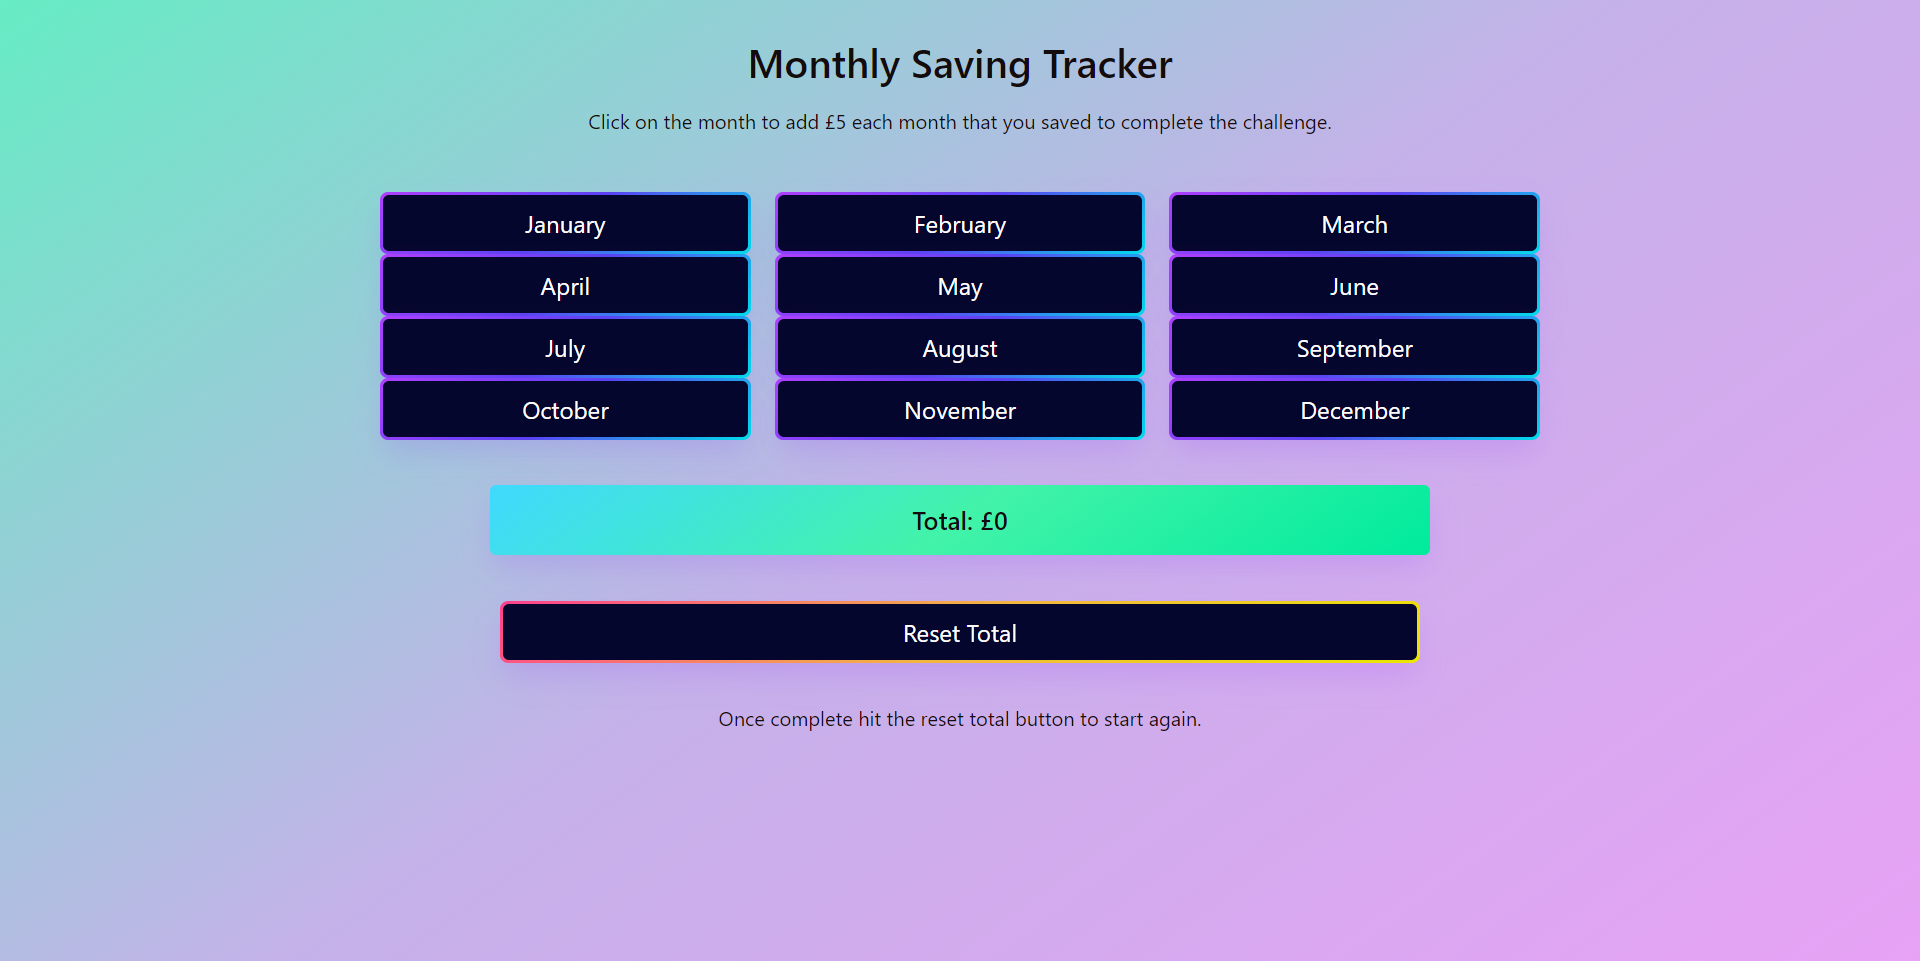
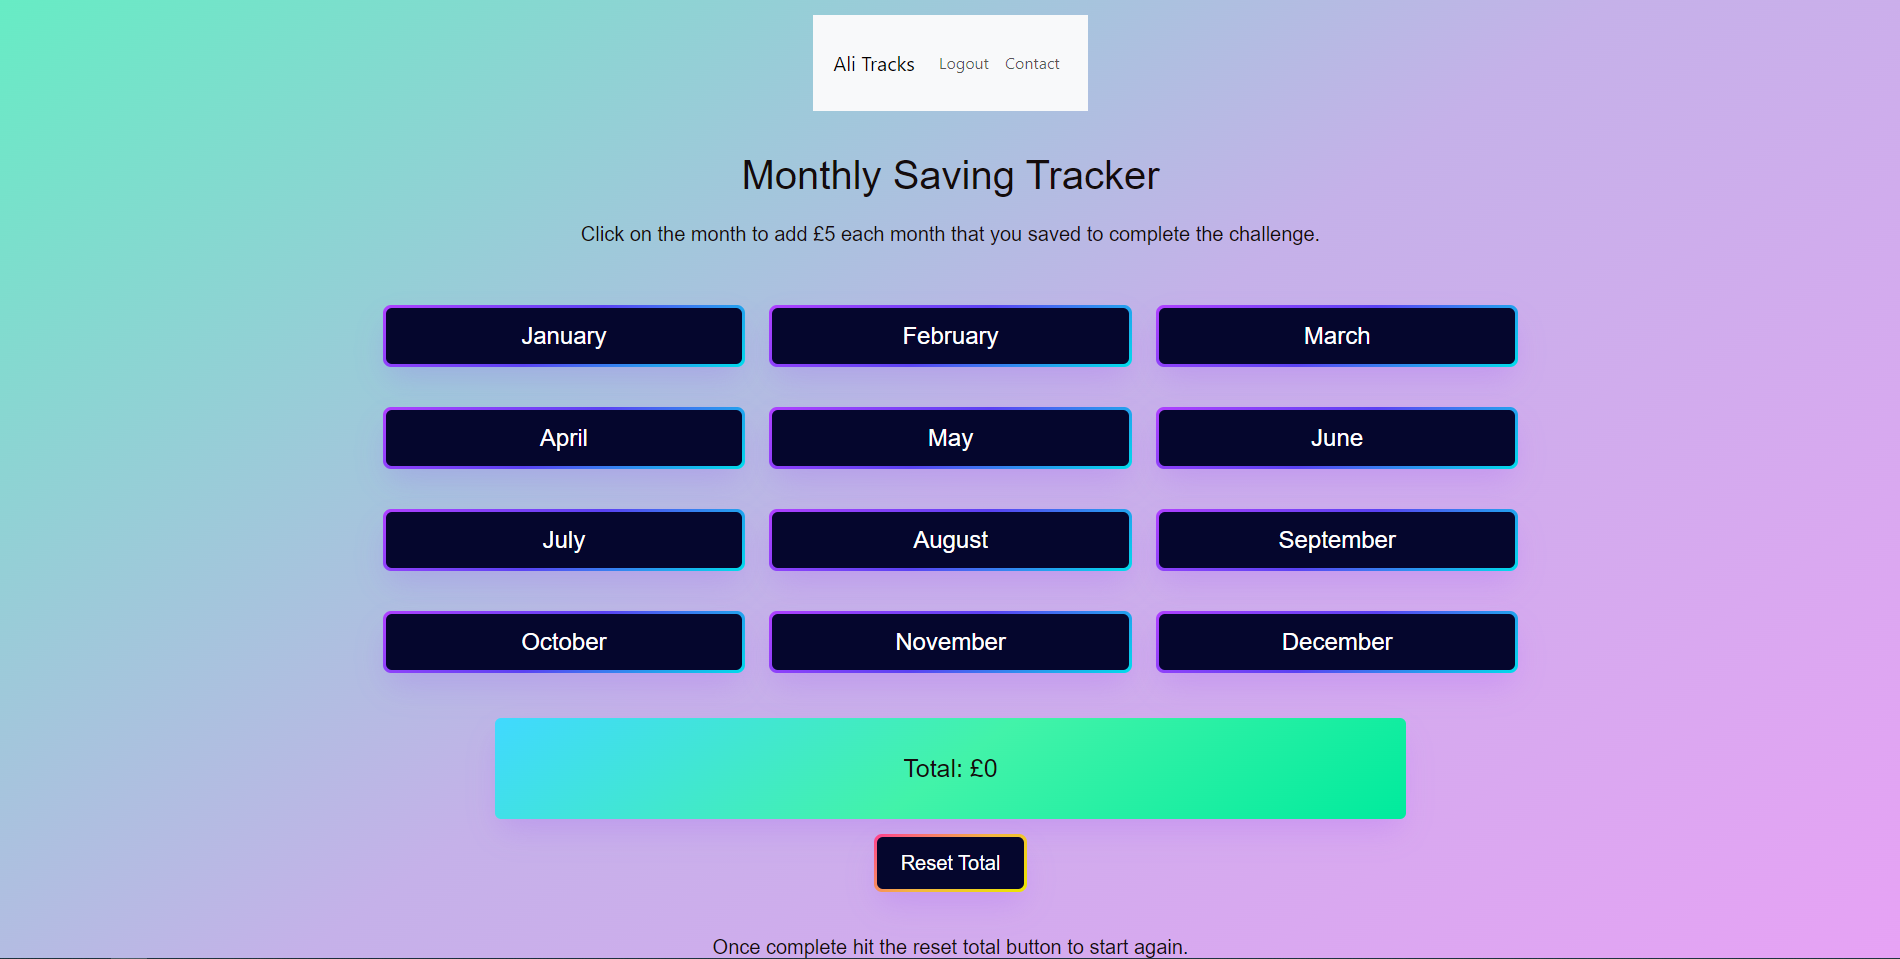
Readme File
Updated readme file to reflect new code validation process

Changed region(s): [[0.1863, 0.0, 0.8074, 0.9374], [0.0, 0.9677, 1.0, 1.0]]

diff --git a/templates/base.html b/templates/base.html
@@ -19,7 +19,7 @@
                     {% if 'username' in session %}
                         <li class="nav-item">
                             <a class="nav-link" href="{{ url_for('logout')}}">Logout</a>
-                        </li>                 
+                        </li>
                     {% else %}
                         <li class="nav-item">
                             <a class="nav-link" href="{{ url_for('register')}}">Register</a>
@@ -32,7 +32,6 @@
             </div>
         </div>
     </nav>
-
     {% with messages = get_flashed_messages() %}
         {% if messages %}
             <div id="flash-message" class="alert alert-success" role="alert">

diff --git a/app.py b/app.py
@@ -1,9 +1,9 @@
+import os
 from flask import Flask, jsonify, request, render_template, redirect, url_for, session, flash
 from flask_bcrypt import Bcrypt
 from flask_cors import CORS
 from flask_pymongo import PyMongo
 from dotenv import load_dotenv
-import os
 
 # Load environment variables from .env file
 if os.path.exists(".env"):
@@ -16,6 +16,7 @@ bcrypt = Bcrypt(app)
 # Get the MONGO_URI and SECRET_KEY from environment variables
 mongo_uri = os.environ.get('MONGO_URI')
 secret_key = os.environ.get('SECRET_KEY')
+
 print("MongoDB connected successfully!")
 
 # Check if the environment variables are loaded correctly
@@ -34,24 +35,26 @@ savings_collection = mongo.db.savings
 contact_collection = mongo.db.contacts
 
 if mongo.db is None:
-    raise ValueError("Failed to connect to MongoDB. Check your MONGO_URI "
-                     "and database configuration.")
+    raise ValueError("Failed to connect to MongoDB. Check your MONGO_URI and database configuration.")
 
-# Route for the registration page
+
 @app.route('/register', methods=['GET', 'POST'])
 def register():
+    """Route for the registration page."""
     if request.method == 'POST':
         user = request.form['username']
         password = request.form['password']
         hashed_password = bcrypt.generate_password_hash(password).decode('utf-8')
-        users_collection.insert_one({'username': user, 'password': hashed_password})
+        users_collection.insert_one(
+            {'username': user, 'password': hashed_password})
         flash('Registration successful! Please login.')
         return redirect(url_for('login'))
     return render_template('register.html')
 
-# Route for the login page
+
 @app.route('/', methods=['GET', 'POST'])
 def login():
+    """Route for the login page."""
     if request.method == 'POST':
         username = request.form['username']
         password = request.form['password']
@@ -63,24 +66,27 @@ def login():
             flash('Invalid credentials, please try again!')
     return render_template('login.html')
 
-# Route to logout
+
 @app.route('/logout')
 def logout():
+    """Route to logout."""
     session.pop('username', None)
     flash('You have been logged out!')
     return redirect(url_for('login'))
 
-# Route to the savings page /index page
+
 @app.route('/index')
 def index():
+    """Route to the savings page /index page."""
     if 'username' not in session:
         return redirect(url_for('login'))
     return render_template('index.html')
 
-# Update the total in the database
+
 @app.route('/update_total', methods=['POST'])
 def update_total():
-    if 'username' not in session:  # Fixed condition here
+    """Update the total in the database."""
+    if 'username' not in session:
         return redirect(url_for('login'))
 
     try:
@@ -90,10 +96,13 @@ def update_total():
 
         # Ensure there is a document in the collection
         if not savings_collection.find_one({'username': username}):
-            savings_collection.insert_one({'username': username, 'total': 0})
+            savings_collection.insert_one(
+                {'username': username, 'total': 0})
 
-        savings_collection.update_one({'username': username}, {'$inc': {'total': 5}})
-        updated_total = savings_collection.find_one({'username': username})['total']
+        savings_collection.update_one({'username': username}, {
+                                      '$inc': {'total': 5}})
+        updated_total = savings_collection.find_one(
+            {'username': username})['total']
         print(f"Updated total for {username}: {updated_total}")
 
         # Return the updated total
@@ -102,9 +111,10 @@ def update_total():
         print(f"Error updating total: {e}")
         return jsonify({'error': str(e)}), 500
 
-# Get total from the database
+
 @app.route('/get_total')
 def get_total():
+    """Get total from the database."""
     if 'username' not in session:
         return redirect(url_for('login'))
 
@@ -113,42 +123,48 @@ def get_total():
         data = savings_collection.find_one({'username': username})
         if data is None:
             data = {'total': 0}
-            savings_collection.insert_one({'username': username, 'total': 0})
+            savings_collection.insert_one(
+                {'username': username, 'total': 0})
         print(f"Current total for {username}: {data['total']}")
         return jsonify({'total': data['total']})
     except Exception as e:
         print(f"Error fetching total: {e}")
         return jsonify({'error': str(e)}), 500
 
-# Reset the total to 0
+
 @app.route('/reset_total', methods=['POST'])
 def reset_total():
+    """Reset the total to 0."""
     if 'username' not in session:
         return redirect(url_for('login'))
 
     try:
         username = session['username']
-        savings_collection.update_one({'username': username}, {'$set': {'total': 0}})
+        savings_collection.update_one(
+            {'username': username}, {'$set': {'total': 0}})
         print(f"Total reset to 0 for {username}")
         return jsonify({'message': 'Total reset successfully', 'total': 0})
     except Exception as e:
         print(f"Error resetting total: {e}")
         return jsonify({'error': str(e)}), 500
 
-# Route for the contact page
+
 @app.route('/contact', methods=['GET', 'POST'])
 def contact():
+    """Route for the contact page."""
     if request.method == 'POST':
         name = request.form['name']
         message = request.form['message']
-        contact_collection.insert_one({'name': name, 'message': message})  # Insert message into the database
-        # Send the message to the database
+        contact_collection.insert_one(
+            {'name': name, 'message': message})  # Insert message into the database
         flash('Message sent successfully, thank you!')
         return redirect(url_for('index'))
     return render_template('contact.html')
+
 
 if __name__ == '__main__':
     app.run(
         host=os.environ.get("IP", "0.0.0.0"),
         port=int(os.environ.get("PORT", "5000")),
-        debug=True)
+        debug=False
+    )

diff --git a/README.md b/README.md
@@ -73,11 +73,16 @@ This is a Flask-based web application that interacts with a MongoDB database. It
 
 ### Main Page
 - <h2 align="centre"><img src="/static/assets/images/main_capture.PNG"></h2>
+- <h2 align="centre"><img src="/static/assets/images/register_capture.PNG"></h2>
+- <h2 align="centre"><img src="/static/assets/images/login_capture.PNG"></h2>
+- <h2 align="centre"><img src="/static/assets/images/contact_capture.PNG"></h2>
 
 ## Features
 
 - Responsive on all device sizes
+- Handles multiple users and stores their data seperately
 - Interactive elements for data retrieval and updates
+- A contact page to leave suggestions and ask questions which are stored in the database to be responded to.
 
 ### Page Content
 
@@ -117,15 +122,25 @@ The W3C Markup Validator, W3C CSS Validator, and other validation tools were use
 - [W3C Markup Validator](https://validator.w3.org/)
 - [W3C CSS Validator](https://jigsaw.w3.org/css-validator/)
 - [JSHint](https://jshint.com/)
-- [PEP8](https://www.pythonchecker.com/)
+- [PEP8](https://snyk.io/code-checker/python/)
 
 -   Using the above mentioned validators the following error logs have been recorded and actioned upon.
 
     -   index.html error log
         -   <img src="./static/assets/images/mp3_html_1.PNG">
         -   <img src="./static/assets/images/mp3_html_2.PNG">
-        -   The error from the HTML code validator regarding this line: link rel="stylesheet" href="{{ url_for('static', filename='assets/style.css') }}"
-            is expected because the validator does not understand Jinja2 templating syntax used by Flask. This is not a problem in the actual application, as Flask will correctly render the template before serving it to the client. Therefore, this warning from the HTML validator can safely be ignored.
+            
+    -   base.html error log
+        -   <img src="./static/assets/images/mp3_base_html_1.PNG">
+    
+    -   register.html error log
+        -   <img src="./static/assets/images/mp3_register_html_1.PNG">
+
+    -   contact.html error log
+        -   <img src="./static/assets/images/mp3_register_html_1.PNG">
+
+    -   The errors from the HTML code validator regarding this line: link rel="stylesheet" href="{{ url_for('static', filename='assets/style.css') }}" and the jinga lines for 
+        extending blocks and end blocks "{%%}" is expected because the validator does not understand Jinja2 templating syntax used by Flask. This is not a problem in the actual application, as Flask will correctly render the template before serving it to the client. Therefore, this warning from the HTML validator can safely be ignored.
 
     -   style.css error log
         -   <img src="./static/assets/images/mp3_css_1.PNG">
@@ -134,10 +149,7 @@ The W3C Markup Validator, W3C CSS Validator, and other validation tools were use
         -   <img src="./static/assets/images/mp3_js_1.PNG">
 
     -   app.py error log
-        -   <img src="./static/assets/images/mp3_python_1.PNG">
-        -   <img src="./static/assets/images/mp3_python_2.PNG">
-        -   <img src="./static/assets/images/mp3_python_3.PNG">
-        -   <img src="./static/assets/images/mp3_python_4.PNG">
+        -   <img src="./static/assets/images/python_checker_1.PNG">
 
 
 ### Performance
